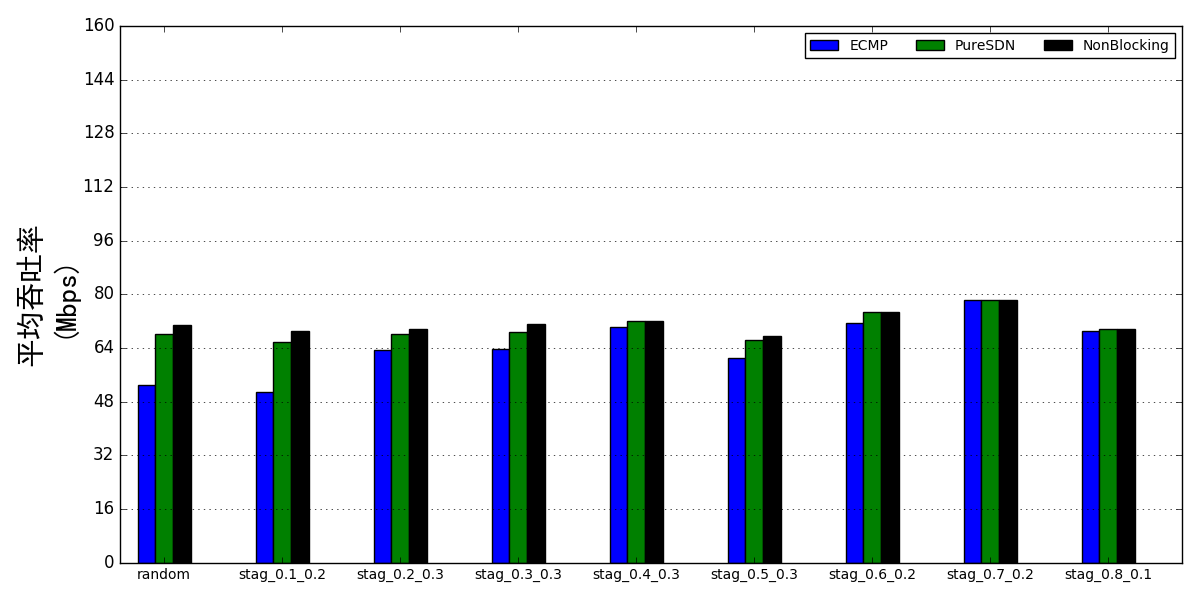
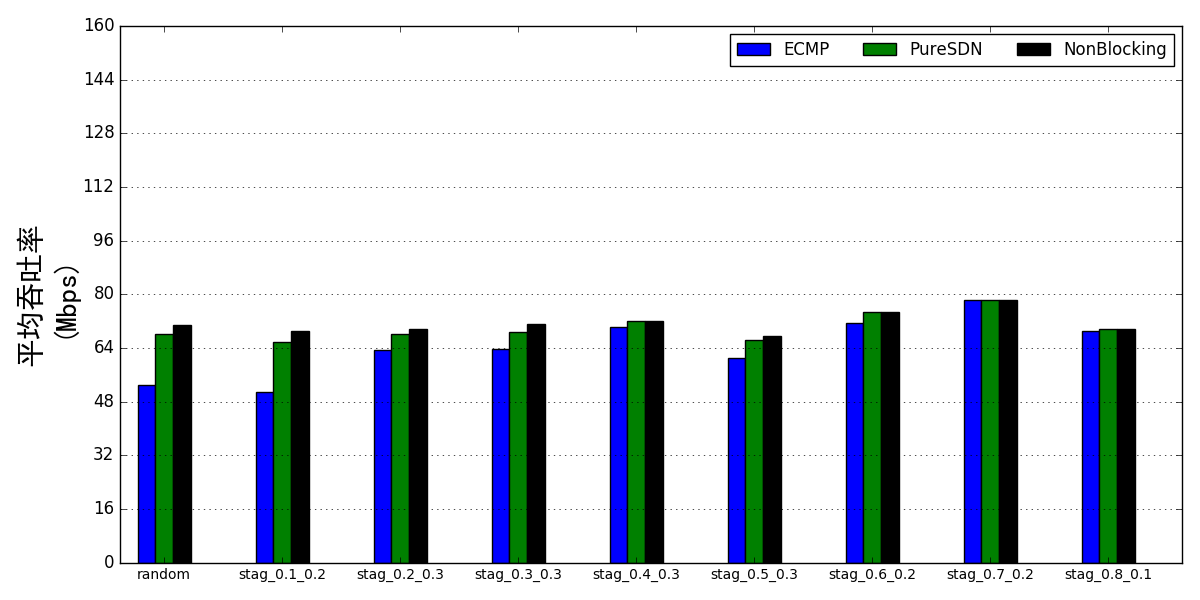
first commit

Changed region(s): [[0.5858, 0.03, 0.9867, 0.12]]

diff --git a/plot_results_Chinese.py b/plot_results_Chinese.py
@@ -247,7 +247,7 @@ def plot_results():
 	plt.ylabel(u'平均吞吐率\n(Mbps)', fontsize='xx-large', fontproperties=chinese_font)
 	plt.ylim(0, full_bisection_bw)
 	plt.yticks(np.linspace(0, full_bisection_bw, 11))
-	plt.legend(loc='upper right', ncol=len(apps), fontsize='small')
+	plt.legend(loc='upper right', ncol=len(apps), fontsize='medium')
 	plt.grid(axis='y')
 	plt.tight_layout()
 	plt.savefig(args.out_dir + '/%s-average_throughput.png' % args.flows_num_per_host)
